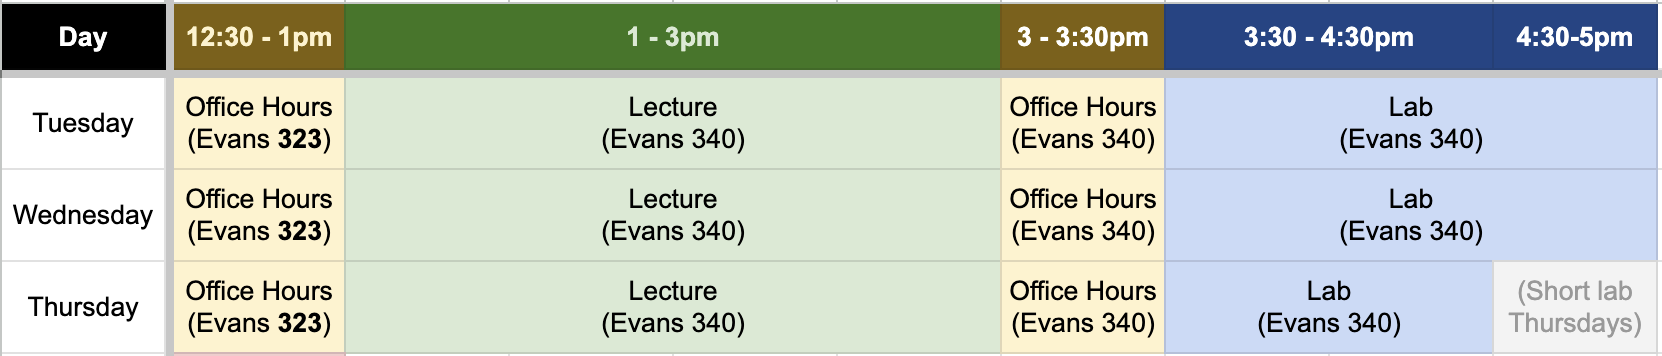
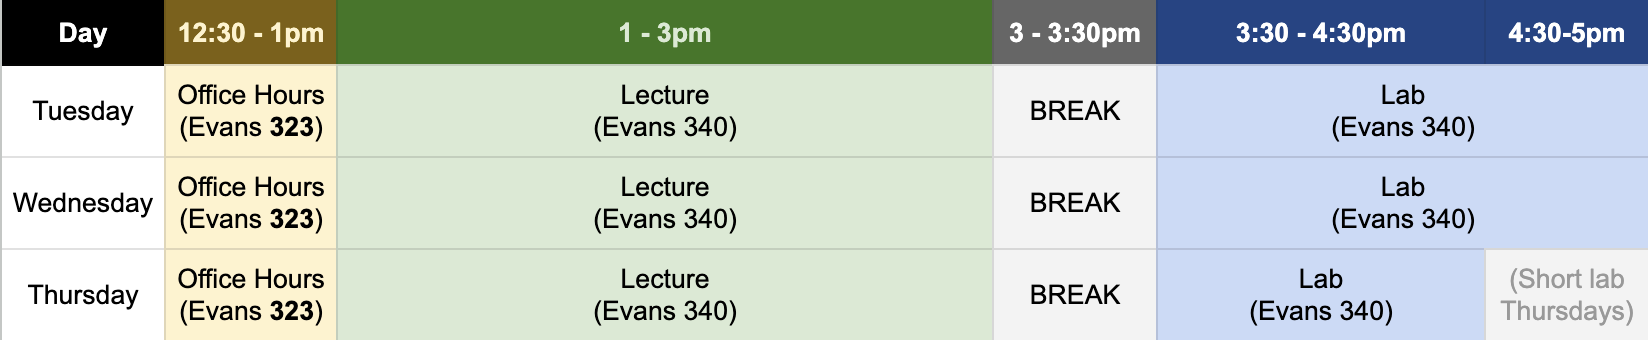
Fix DataHub button, add link to youtube playlist, fix office hours / personell table

diff --git a/_site/index.html b/_site/index.html
@@ -276,7 +276,7 @@ window.Quarto = {
 
     <a style="padding: 3px 8px; margin: 5px 0;
               background-color: #003262;
-              color: white" href="https://r.datahub.berkeley.edu" target="_blank" type="button" class="btn btn-outline-primary btn-med">
+              color: white" href="https://datahub.berkeley.edu/hub/user-redirect/git-pull?repo=https%3A%2F%2Fgithub.com%2Fberkeley-stat131a%2Fsummer-2025-assignments%2F&amp;urlpath=rstudio%2F&amp;branch=main" target="_blank" type="button" class="btn btn-outline-primary btn-med">
         <i class="fa-solid fa-laptop-code"></i> <b>DataHub</b>
     </a>
     Write code
@@ -308,10 +308,10 @@ window.Quarto = {
 
     <a style="padding: 3px 8px; margin: 5px 0;
               background-color: #C4820E;
-              color: white" href="https://bcourses.berkeley.edu/courses/1545552/external_tools/90481" target="_blank" type="button" class="btn btn-outline-primary btn-med">
-        <i class="fa-solid fa-video"></i> <b>bCourses</b>
+              color: white" href="https://www.youtube.com/playlist?list=PLwh45cIJaIHLgsYPeuCYhh22ydC11Cox6" target="_blank" type="button" class="btn btn-outline-primary btn-med">
+        <i class="fa-solid fa-video"></i> <b>Lecture Recordings</b>
     </a>
-    Only for lecture recordings (see "Media Files")
+    (Youtube Playlist)
     <br>
 
     <a style="padding: 3px 8px; margin: 5px 0;
@@ -332,14 +332,16 @@ No matching items
 <h2 class="anchored" data-anchor-id="course-staff">Course Staff</h2>
 <table class="caption-top table">
 <colgroup>
-<col style="width: 33%">
-<col style="width: 33%">
-<col style="width: 33%">
+<col style="width: 25%">
+<col style="width: 25%">
+<col style="width: 25%">
+<col style="width: 25%">
 </colgroup>
 <thead>
 <tr class="header">
 <th>Position</th>
 <th>Name</th>
+<th>Office Hours</th>
 <th>Email</th>
 </tr>
 </thead>
@@ -347,16 +349,19 @@ No matching items
 <tr class="odd">
 <td><strong>Instructor</strong></td>
 <td><strong>Everett Wetchler</strong></td>
+<td><strong>1. Tu/W/Th 12:30-1, Evans 323 (my office)<br>2. Tu/W/Th After class (quick questions)<br>3.By appointment (email me)</strong></td>
 <td><a href="mailto:wetchler@berkeley.edu?subject=STAT%20C131A">wetchler@berkeley.edu</a></td>
 </tr>
 <tr class="even">
 <td>GSI (runs lab)</td>
 <td>Huong Vu</td>
+<td>Mondays 9-11am, Evans 434</td>
 <td><a href="mailto:huong_vu@berkeley.edu?subject=STAT%20C131A">huong_vu@berkeley.edu</a></td>
 </tr>
 <tr class="odd">
 <td>Reader (grading)</td>
 <td>Sarah Sturgeon</td>
+<td></td>
 <td></td>
 </tr>
 </tbody>
